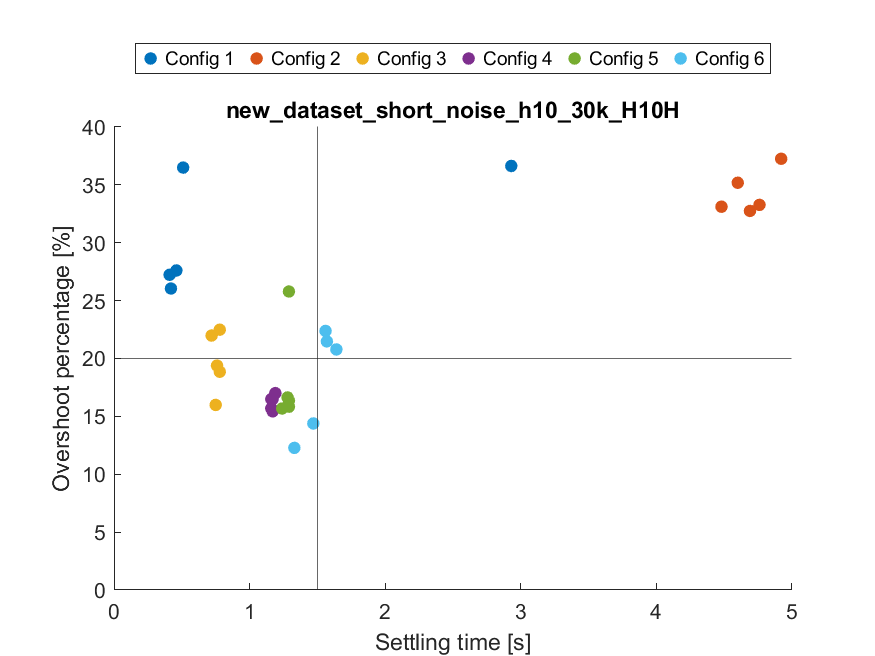
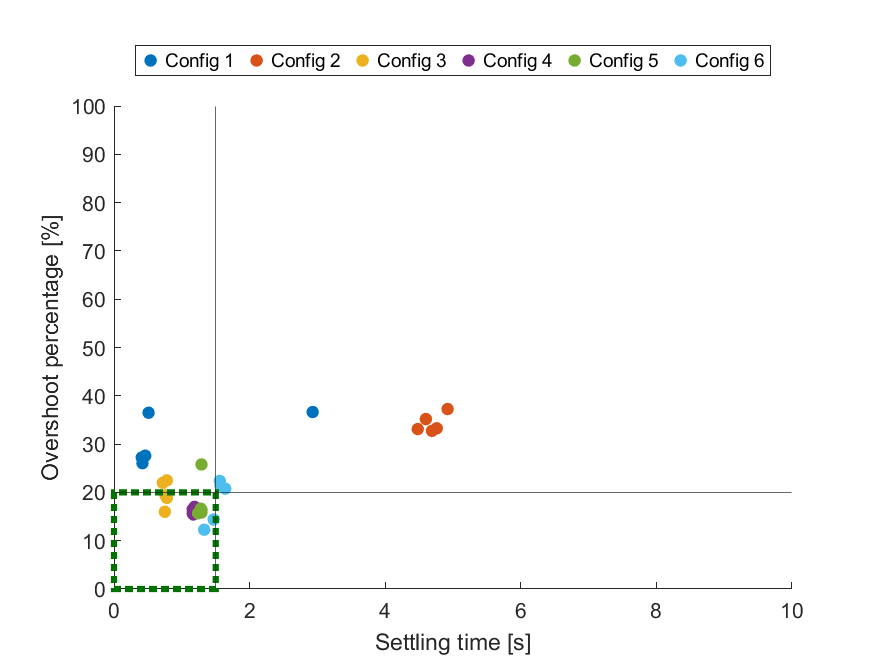
figs

diff --git a/matlab_simulator/check_controller_v2_real_results.m b/matlab_simulator/check_controller_v2_real_results.m
@@ -3,10 +3,11 @@ close all
 clear
 
 
-models_to_test = ["new_dataset_long_noise_h10_40k_H10H", ...
-                  "new_dataset_long_noise_scaled_h10_30k_H10H", ...
-                  "new_dataset_short_noise_h10_30k_H10H", ...
-                  "new_dataset_short_noise_scaled_h10_40k_H10H"];
+% models_to_test = ["new_dataset_long_noise_h10_40k_H10H", ...
+%                   "new_dataset_long_noise_scaled_h10_30k_H10H", ...
+%                   "new_dataset_short_noise_h10_30k_H10H", ...
+                  % "new_dataset_short_noise_scaled_h10_40k_H10H"];
+models_to_test = ["new_dataset_short_noise_h10_30k_H10H"];
 
 n_models = length(models_to_test);
 
@@ -136,40 +137,40 @@ for i = 1:n_models
 end %% n_models
 
 
-
-%%%% final_scores = model, config, [Ts, OS], exp);
-for j = 1:6
-
-    
-    figure
-    hold on
-    for i = 1:n_models
-        scatter(reshape(final_scores(i,j,1,1:end), [], length(final_scores(i,j,1,1:end))), ...
-                reshape(final_scores(i,j,2,1:end), [], length(final_scores(i,j,2,1:end))), ...
-                'filled', 'DisplayName',models_to_test(i))
-    end
-    xline(1.5, 'HandleVisibility','off')
-    yline(20, 'HandleVisibility','off')
-    yl = ylim;
-    ylim([min(0, yl(1)), max(yl(2),40)])
-    xlim([0,5])
-    xlabel("Settling time [s]")
-    ylabel("Overshoot percentage [%]")
-    legend('Interpreter','none', Location='northoutside')
-    title(sprintf("Config %d", j))
-    savefig(sprintf("exp_results/result_config%d.fig", j))
-    saveas(gcf, sprintf("exp_results/result_config%d.png", j))
-
-
-end
-
-
-
+% 
+% %%%% final_scores = model, config, [Ts, OS], exp);
+% for j = 1:6
+% 
+% 
+%     figure
+%     hold on
+%     for i = 1:n_models
+%         scatter(reshape(final_scores(i,j,1,1:end), [], length(final_scores(i,j,1,1:end))), ...
+%                 reshape(final_scores(i,j,2,1:end), [], length(final_scores(i,j,2,1:end))), ...
+%                 'filled', 'DisplayName',models_to_test(i))
+%     end
+%     xline(1.5, 'HandleVisibility','off')
+%     yline(20, 'HandleVisibility','off')
+%     yl = ylim;
+%     ylim([min(0, yl(1)), max(yl(2),40)])
+%     xlim([0,5])
+%     xlabel("Settling time [s]")
+%     ylabel("Overshoot percentage [%]")
+%     legend('Interpreter','none', Location='northoutside')
+%     title(sprintf("Config %d", j))
+%     savefig(sprintf("exp_results/result_config%d.fig", j))
+%     saveas(gcf, sprintf("exp_results/result_config%d.png", j))
+% 
+% 
+% end
+% 
+% 
+% 
 for i = 1:n_models
-    
+
     figure
     hold on
-    
+
     for j = 1:6
         scatter(reshape(final_scores(i,j,1,1:end), [], length(final_scores(i,j,1,1:end))), ...
                 reshape(final_scores(i,j,2,1:end), [], length(final_scores(i,j,2,1:end))), ...
@@ -178,12 +179,16 @@ for i = 1:n_models
     xline(1.5, 'HandleVisibility','off')
     yline(20, 'HandleVisibility','off')
     yl = ylim;
-    ylim([min(0, yl(1)), max(yl(2),40)])
-    xlim([0,5])
+    ylim([min(0, yl(1)), max(yl(2),100)])
+    xlim([0,10])
+    r = rectangle('Position',[0,0,1.5,20]);
+    r.EdgeColor = '#007200';
+    r.LineStyle = ":";
+    r.LineWidth = 3;
     xlabel("Settling time [s]")
     ylabel("Overshoot percentage [%]")
     legend('Interpreter','none', 'Location', 'northoutside','NumColumns',6)
-    title(models_to_test(i), Interpreter="none")
+    % title(models_to_test(i), Interpreter="none")
     savefig(sprintf("exp_results/result_model%s.fig", models_to_test(i)))
     saveas(gcf, sprintf("exp_results/result_model%s.png", models_to_test(i)))
 

diff --git a/matlab_simulator/check_controller_v2_results.m b/matlab_simulator/check_controller_v2_results.m
@@ -40,7 +40,8 @@ slow_sys_counters = 0;
 fast_sys_counter = 0;
 just_bad_counter = 0;
 
-show_bad = true;
+show_bad = false;
+show_good = true;
 show_bad_counter = 0; 
 
 OS_list = zeros(total_exp,2);
@@ -60,6 +61,32 @@ for i = 1:total_exp
     OS_tmp = max(tab.omega-stepsize)/stepsize*100;
     OS_list(i,1) = OS_tmp;
     OS_list(i,2) = tmp_results.success;
+
+    if (show_good) && (tmp_results.success)
+        figure
+        ax1 = subplot(2,1,1);
+        hold on
+        grid on
+        plot(tab.t, tab.r, "DisplayName","Omega ref")
+        plot(tab.t, tab.omega, "DisplayName","Omega")
+        xlabel("time [s]")
+        ylabel("speed [rpm]")
+        legend()
+
+        ax2 = subplot(2,1,2);
+        hold on
+        grid on
+        plot(tab.t, tab.iq_ref, "DisplayName","iq ref")
+        plot(tab.t, tab.iq, "DisplayName","iq")
+        plot(tab.t, tab.id, "DisplayName","id")
+        xlabel("time [s]")
+        ylabel("current [A]")
+        legend()
+        linkaxes([ax1, ax2], 'x')
+        input("next?")
+        close all
+
+    end
     % 
     % if OS_tmp > 20
     %     figure
